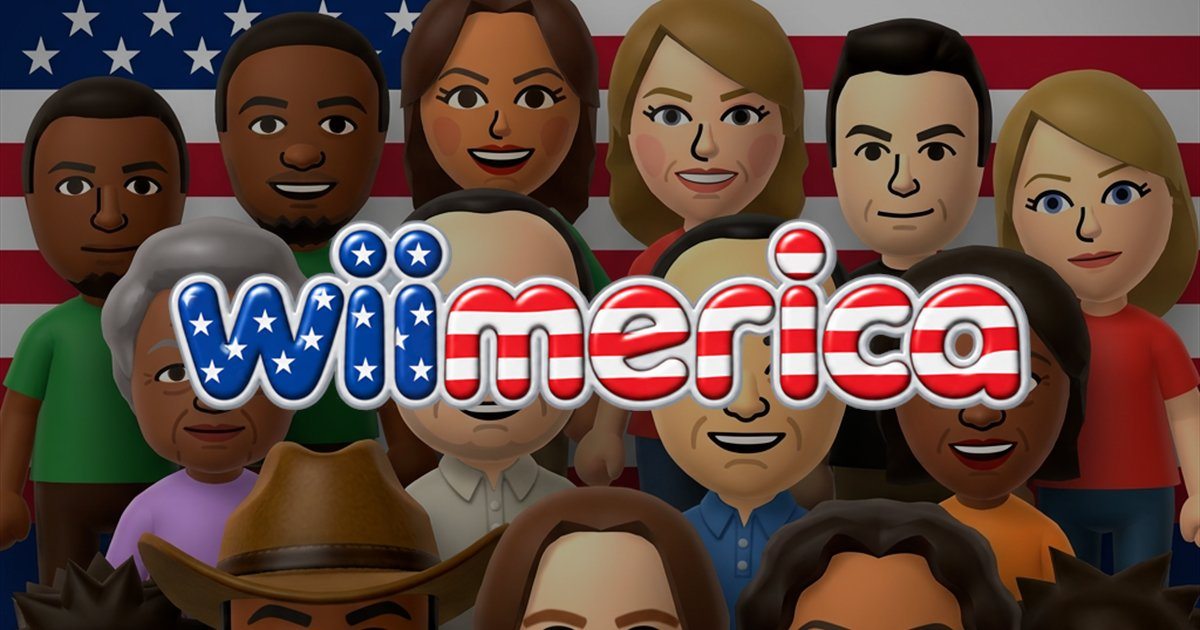
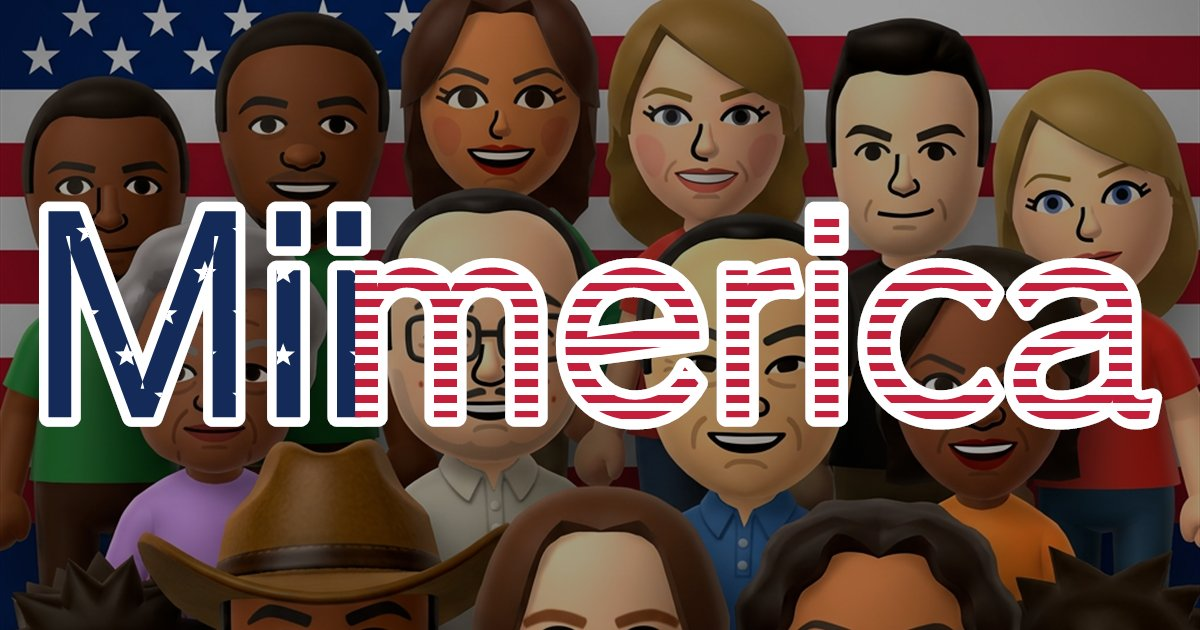
Draw a code-generated Miimerica wordmark for the share card
The social share card (og:image / twitter:image) was compositing the
existing public/wiimerica/wiimerica logo.png over the PFP backdrop, so the
live preview card still read "Wiimerica" after the rename. There was no new
"Miimerica" artwork available in that glossy 3D style, and no image
generation tool to make one.

tools/make-share.ps1 now renders the wordmark directly with GraphicsPath
text outlines instead of overlaying that file: "Mii" as a starred blue
field, "merica" as red/white stripes, both with a white halo and a drop
shadow so the mark holds up against the photo behind it. It uses the site's
own WiiUI font (tools/font-src/main.ttf) for stylistic consistency and no
longer depends on the old logo PNG at all.

og:image:alt now says "Miimerica" — accurate again, since the art actually
says that now. Updated the naming note in README.md to match: the share card
is fixed, only the boot-screen logo (a separate file) still shows the old
name.

Changed region(s): [[0.0308, 0.3016, 0.9867, 0.6937]]

diff --git a/index.html b/index.html
@@ -19,9 +19,7 @@
 <meta property="og:image" content="https://www.wiimerica.fun/assets/img/og-card.jpg">
 <meta property="og:image:width" content="1200">
 <meta property="og:image:height" content="630">
-<!-- alt intentionally left as "Wiimerica" — the share-card art still has that
-     wordmark drawn into it (see the artwork note in README.md) -->
-<meta property="og:image:alt" content="Wiimerica">
+<meta property="og:image:alt" content="Miimerica">
 
 <meta name="twitter:card" content="summary_large_image">
 <meta name="twitter:site" content="@wiimerica_fun">

diff --git a/README.md b/README.md
@@ -7,14 +7,16 @@ Plain HTML/CSS/JS. No build step, no framework, no runtime dependencies,
 no third-party scripts, no analytics, no network calls of any kind.
 
 **A note on the name.** The project was renamed from Wiimerica to Miimerica —
-every title, heading and piece of copy in this repo says Miimerica. Three
-things deliberately still say Wiimerica:
+every title, heading and piece of copy in this repo says Miimerica, including
+the social share card (its wordmark is drawn in code by
+`tools/make-share.ps1`, not copied from the boot-screen logo art). Two things
+deliberately still say Wiimerica:
 - the domain, **wiimerica.fun**, and the X account, **@wiimerica_fun**
   (external accounts, not something this repo controls — update the URLs here
   once you've moved them)
-- the boot-screen logo and the social share card, which have "Wiimerica"
-  drawn into the artwork as pixels, not text — swap in new art and regenerate
-  with `npm run share` when you have it
+- the boot-screen logo, `public/thumbs/wiimerica logo.png`, which has
+  "Wiimerica" drawn into it as pixels, not text — swap in new art when you
+  have it, or ask for the same code-drawn treatment the share card got
 - filenames on disk (`public/wiimerica/`, `wiimerica logo.png`, `wiimerica
   PROMO 1.mp4`) — renaming these is safe to do later, but every reference to
   them in `channels.js` would need to move in the same commit
